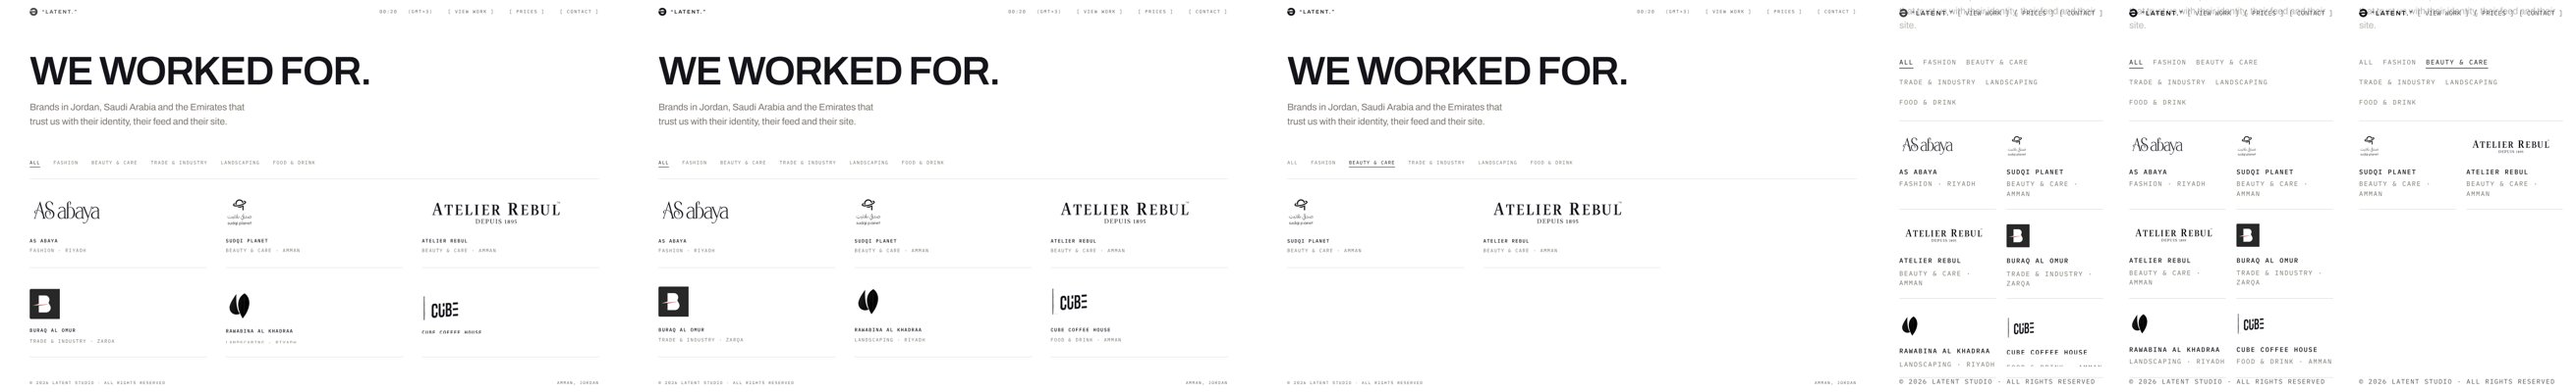
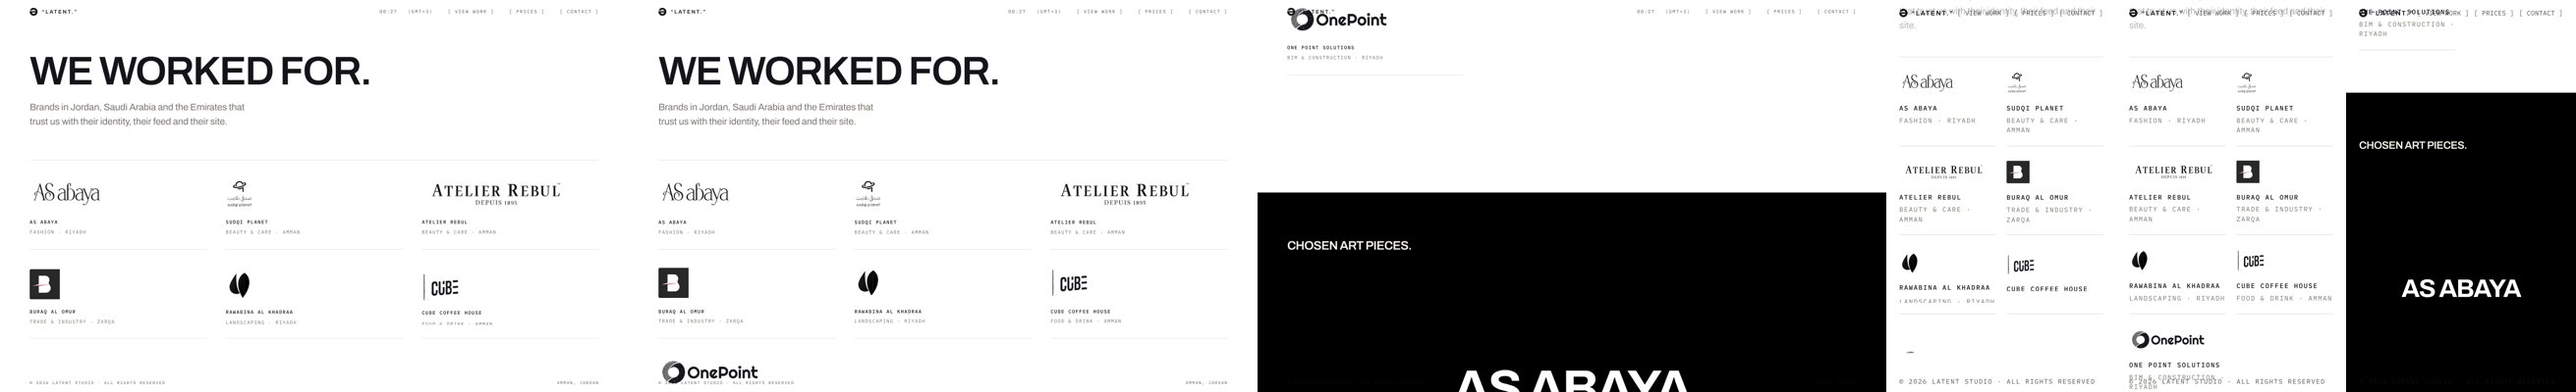
E: the wall of clients above the work pieces, no filter row, One Point Solutions added
Claude-Session: https://claude.ai/code/session_0142D8cuVtdJreCuNyu9fMo2

diff --git a/latent-v3e/index.html b/latent-v3e/index.html
@@ -2587,7 +2587,7 @@ html.pg-snap{scroll-snap-type:y proximity}
 @media (prefers-reduced-motion:reduce){.pel-root *{transition-duration:.01ms !important;transition-delay:0s !important}}
 
 /* we worked for: the wall of marks */
-.lw{width:100%;margin-top:clamp(6px,1vh,12px)}
+.lw{width:100%;margin-top:clamp(10px,2vh,24px)}
 .lw-filters{display:flex;flex-wrap:wrap;gap:6px clamp(16px,2.2vw,30px);margin:0 0 clamp(14px,2.4vh,24px)}
 .lw-f{-webkit-appearance:none;appearance:none;background:none;border:0;padding:8px 0;margin:0;cursor:pointer;position:relative;font-family:"IBM Plex Mono",monospace;font-size:11px;letter-spacing:.14em;text-transform:uppercase;color:var(--stone);transition:color .3s ease}
 .lw-f::after{content:'';position:absolute;left:0;right:0;bottom:4px;height:1px;background:var(--ink);transform:scaleX(0);transform-origin:0 50%;transition:transform .45s cubic-bezier(.2,.8,.2,1)}
@@ -2743,6 +2743,51 @@ a.lw-cell:hover .lw-t b{color:var(--marrow)}
 
 
 
+<section class="sec light cf js-cf js-path ow-sec" id="ourwork">
+  <div class="inner cf-in cf-short ow-in">
+    <h2 class="cf-h js-words">We worked for.</h2>
+    <p class="cf-p js-words">Brands in Jordan, Saudi Arabia and the Emirates that trust us with their identity, their feed and their site.</p>
+    <div class="lw js-lw">
+      <div class="lw-grid js-lw-grid">
+      <a class="lw-cell rv js-lw-cell" data-cat="fashion" style="--k:0" href="https://asabaya.com" target="_blank" rel="noopener">
+        <span class="lw-mk"><span class="lw-mk-in"><img src="media/96-ea0aa009dd.png" alt="AS Abaya" loading="lazy" decoding="async"></span></span>
+        <span class="lw-t"><span class="lw-t-in"><b>AS Abaya</b></span></span>
+        <span class="lw-t lw-t2"><span class="lw-t-in">Fashion &middot; Riyadh</span></span>
+      </a>
+      <a class="lw-cell rv js-lw-cell" data-cat="beauty" style="--k:1" href="https://sudqiplanet.com" target="_blank" rel="noopener">
+        <span class="lw-mk"><span class="lw-mk-in"><img src="media/97-9be7e791fb.png" alt="Sudqi Planet" loading="lazy" decoding="async"></span></span>
+        <span class="lw-t"><span class="lw-t-in"><b>Sudqi Planet</b></span></span>
+        <span class="lw-t lw-t2"><span class="lw-t-in">Beauty & care &middot; Amman</span></span>
+      </a>
+      <a class="lw-cell rv js-lw-cell" data-cat="beauty" style="--k:2" href="https://www.atelierrebul.com.tr" target="_blank" rel="noopener">
+        <span class="lw-mk"><span class="lw-mk-in"><img src="media/98-9341a842da.png" alt="Atelier Rebul" loading="lazy" decoding="async"></span></span>
+        <span class="lw-t"><span class="lw-t-in"><b>Atelier Rebul</b></span></span>
+        <span class="lw-t lw-t2"><span class="lw-t-in">Beauty & care &middot; Amman</span></span>
+      </a>
+      <a class="lw-cell rv js-lw-cell" data-cat="trade" style="--k:3" href="https://buraqalomur.com" target="_blank" rel="noopener">
+        <span class="lw-mk"><span class="lw-mk-in"><img src="media/100-ba628bc26e.svg" alt="Buraq Al Omur" loading="lazy" decoding="async"></span></span>
+        <span class="lw-t"><span class="lw-t-in"><b>Buraq Al Omur</b></span></span>
+        <span class="lw-t lw-t2"><span class="lw-t-in">Trade & industry &middot; Zarqa</span></span>
+      </a>
+      <a class="lw-cell rv js-lw-cell" data-cat="green" style="--k:4" href="https://rawabinaalkhadhraa.com" target="_blank" rel="noopener">
+        <span class="lw-mk"><span class="lw-mk-in"><img src="media/101-3054a7e169.svg" alt="Rawabina Al Khadraa" loading="lazy" decoding="async" class="lw-inkimg"></span></span>
+        <span class="lw-t"><span class="lw-t-in"><b>Rawabina Al Khadraa</b></span></span>
+        <span class="lw-t lw-t2"><span class="lw-t-in">Landscaping &middot; Riyadh</span></span>
+      </a>
+      <div class="lw-cell rv js-lw-cell" data-cat="food" style="--k:5">
+        <span class="lw-mk"><span class="lw-mk-in"><img src="media/99-fbbf37eca7.png" alt="Cube Coffee House" loading="lazy" decoding="async"></span></span>
+        <span class="lw-t"><span class="lw-t-in"><b>Cube Coffee House</b></span></span>
+        <span class="lw-t lw-t2"><span class="lw-t-in">Food & drink &middot; Amman</span></span>
+      </div>
+      <a class="lw-cell rv js-lw-cell" data-cat="build" style="--k:6" href="https://onepoint.com.sa" target="_blank" rel="noopener">
+        <span class="lw-mk"><span class="lw-mk-in"><img src="media/102-7338e44344.png" alt="One Point Solutions" loading="lazy" decoding="async"></span></span>
+        <span class="lw-t"><span class="lw-t-in"><b>One Point Solutions</b></span></span>
+        <span class="lw-t lw-t2"><span class="lw-t-in">BIM & construction &middot; Riyadh</span></span>
+      </a>
+      </div>
+    </div>
+  </div>
+</section>
 <section class="sec dark fy js-fy" id="chosen">
   <div class="fy-hold js-fy-hold" style="--n:6">
     <div class="fy-stage">
@@ -2797,54 +2842,7 @@ a.lw-cell:hover .lw-t b{color:var(--marrow)}
     </div>
   </div>
 </section>
-<section class="sec light cf js-cf js-path ow-sec" id="ourwork">
-  <div class="inner cf-in cf-short ow-in">
-    <h2 class="cf-h js-words">We worked for.</h2>
-    <p class="cf-p js-words">Brands in Jordan, Saudi Arabia and the Emirates that trust us with their identity, their feed and their site.</p>
-    <div class="lw js-lw">
-      <div class="lw-filters rv" style="--k:0">
-      <button type="button" class="lw-f on js-lw-f" data-cat="all">All</button>
-      <button type="button" class="lw-f js-lw-f" data-cat="fashion">Fashion</button>
-      <button type="button" class="lw-f js-lw-f" data-cat="beauty">Beauty & care</button>
-      <button type="button" class="lw-f js-lw-f" data-cat="trade">Trade & industry</button>
-      <button type="button" class="lw-f js-lw-f" data-cat="green">Landscaping</button>
-      <button type="button" class="lw-f js-lw-f" data-cat="food">Food & drink</button>
-      </div>
-      <div class="lw-grid js-lw-grid">
-      <a class="lw-cell rv js-lw-cell" data-cat="fashion" style="--k:0" href="https://asabaya.com" target="_blank" rel="noopener">
-        <span class="lw-mk"><span class="lw-mk-in"><img src="media/96-ea0aa009dd.png" alt="AS Abaya" loading="lazy" decoding="async"></span></span>
-        <span class="lw-t"><span class="lw-t-in"><b>AS Abaya</b></span></span>
-        <span class="lw-t lw-t2"><span class="lw-t-in">Fashion &middot; Riyadh</span></span>
-      </a>
-      <a class="lw-cell rv js-lw-cell" data-cat="beauty" style="--k:1" href="https://sudqiplanet.com" target="_blank" rel="noopener">
-        <span class="lw-mk"><span class="lw-mk-in"><img src="media/97-9be7e791fb.png" alt="Sudqi Planet" loading="lazy" decoding="async"></span></span>
-        <span class="lw-t"><span class="lw-t-in"><b>Sudqi Planet</b></span></span>
-        <span class="lw-t lw-t2"><span class="lw-t-in">Beauty & care &middot; Amman</span></span>
-      </a>
-      <a class="lw-cell rv js-lw-cell" data-cat="beauty" style="--k:2" href="https://www.atelierrebul.com.tr" target="_blank" rel="noopener">
-        <span class="lw-mk"><span class="lw-mk-in"><img src="media/98-9341a842da.png" alt="Atelier Rebul" loading="lazy" decoding="async"></span></span>
-        <span class="lw-t"><span class="lw-t-in"><b>Atelier Rebul</b></span></span>
-        <span class="lw-t lw-t2"><span class="lw-t-in">Beauty & care &middot; Amman</span></span>
-      </a>
-      <a class="lw-cell rv js-lw-cell" data-cat="trade" style="--k:3" href="https://buraqalomur.com" target="_blank" rel="noopener">
-        <span class="lw-mk"><span class="lw-mk-in"><img src="media/100-ba628bc26e.svg" alt="Buraq Al Omur" loading="lazy" decoding="async"></span></span>
-        <span class="lw-t"><span class="lw-t-in"><b>Buraq Al Omur</b></span></span>
-        <span class="lw-t lw-t2"><span class="lw-t-in">Trade & industry &middot; Zarqa</span></span>
-      </a>
-      <a class="lw-cell rv js-lw-cell" data-cat="green" style="--k:4" href="https://rawabinaalkhadhraa.com" target="_blank" rel="noopener">
-        <span class="lw-mk"><span class="lw-mk-in"><img src="media/101-3054a7e169.svg" alt="Rawabina Al Khadraa" loading="lazy" decoding="async" class="lw-inkimg"></span></span>
-        <span class="lw-t"><span class="lw-t-in"><b>Rawabina Al Khadraa</b></span></span>
-        <span class="lw-t lw-t2"><span class="lw-t-in">Landscaping &middot; Riyadh</span></span>
-      </a>
-      <div class="lw-cell rv js-lw-cell" data-cat="food" style="--k:5">
-        <span class="lw-mk"><span class="lw-mk-in"><img src="media/99-fbbf37eca7.png" alt="Cube Coffee House" loading="lazy" decoding="async"></span></span>
-        <span class="lw-t"><span class="lw-t-in"><b>Cube Coffee House</b></span></span>
-        <span class="lw-t lw-t2"><span class="lw-t-in">Food & drink &middot; Amman</span></span>
-      </div>
-      </div>
-    </div>
-  </div>
-</section>
+
 <!-- ================= SECTORS — one line, one paragraph ================= -->
 <section class="sec light cf js-cf js-path" id="sectors">
   <div class="inner cf-in">

diff --git a/latent-v3-src/e_patch_wall.py b/latent-v3-src/e_patch_wall.py
@@ -11,7 +11,8 @@ ITEMS=[('AS Abaya','fashion','Fashion','Riyadh','https://asabaya.com',MK['abaya'
        ('Atelier Rebul','beauty','Beauty & care','Amman','https://www.atelierrebul.com.tr',MK['rebul'],''),
        ('Buraq Al Omur','trade','Trade & industry','Zarqa','https://buraqalomur.com',MK['buraq'],''),
        ('Rawabina Al Khadraa','green','Landscaping','Riyadh','https://rawabinaalkhadhraa.com',MK['rawabina'],' lw-ink'),
-       ('Cube Coffee House','food','Food & drink','Amman',None,MK['cube'],'')]
+       ('Cube Coffee House','food','Food & drink','Amman',None,MK['cube'],''),
+       ('One Point Solutions','build','BIM & construction','Riyadh','https://onepoint.com.sa',MK['onepoint'],'')]
 cats=[]; [cats.append((c,l)) for n,c,l,w,h,m,x in ITEMS if (c,l) not in cats]
 pills='      <button type="button" class="lw-f on js-lw-f" data-cat="all">All</button>\n'+''.join('      <button type="button" class="lw-f js-lw-f" data-cat="%s">%s</button>\n'%(c,l) for c,l in cats)
 cells=''
@@ -24,12 +25,10 @@ for k,(n,c,l,w,h,m,x) in enumerate(ITEMS):
       </%s>
 '''%(tag,c,k,attrs,m,n,(' class="lw-inkimg"' if x else ''),n,l,w,tag)
 WALL='''    <div class="lw js-lw">
-      <div class="lw-filters rv" style="--k:0">
-%s      </div>
       <div class="lw-grid js-lw-grid">
 %s      </div>
     </div>
-'''%(pills,cells)
+'''%(cells)
 i=s.index('<section class="sec light cf js-cf js-path ow-sec" id="ourwork">'); j=s.index('</section>',i); sec=s[i:j]
 a=sec.index('    <div class="pel-root js-pel">'); b=sec.rindex('    </div>\n  </div>\n')+len('    </div>\n')
 sec=sec[:a]+WALL+sec[b:]
@@ -38,7 +37,7 @@ sec=sec.replace('Things we made for ourselves and for clients, newest first. Ope
 s=s[:i]+sec+s[j:]
 CSS='''
 /* we worked for: the wall of marks */
-.lw{width:100%;margin-top:clamp(6px,1vh,12px)}
+.lw{width:100%;margin-top:clamp(10px,2vh,24px)}
 .lw-filters{display:flex;flex-wrap:wrap;gap:6px clamp(16px,2.2vw,30px);margin:0 0 clamp(14px,2.4vh,24px)}
 .lw-f{-webkit-appearance:none;appearance:none;background:none;border:0;padding:8px 0;margin:0;cursor:pointer;position:relative;font-family:"IBM Plex Mono",monospace;font-size:11px;letter-spacing:.14em;text-transform:uppercase;color:var(--stone);transition:color .3s ease}
 .lw-f::after{content:'';position:absolute;left:0;right:0;bottom:4px;height:1px;background:var(--ink);transform:scaleX(0);transform-origin:0 50%;transition:transform .45s cubic-bezier(.2,.8,.2,1)}

diff --git a/latent-v3-src/e_patch_fly.py b/latent-v3-src/e_patch_fly.py
@@ -33,7 +33,7 @@ SEC='''<section class="sec dark fy js-fy" id="chosen">
   </div>
 </section>
 '''%(len(ORDER),cards,names)
-i=s.index('<section class="sec light cf js-cf js-path ow-sec" id="ourwork">'); s=s[:i]+SEC+s[i:]
+i=s.index('<section class="sec light cf js-cf js-path ow-sec" id="ourwork">'); i=s.index('</section>',i)+10; s=s[:i]+'\n'+SEC+s[i:]   # right after the wall of the clients we worked for
 CSS='''
 /* the chosen art pieces: a flight through space */
 .fy{padding:0;background:#000;color:var(--ivory)}
